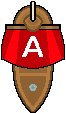
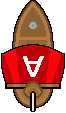
flip textures

diff --git a/core/src/com/mygdx/pirategame/GameScreen.java b/core/src/com/mygdx/pirategame/GameScreen.java
@@ -22,8 +22,8 @@ import java.util.ArrayList;
 import java.util.HashMap;
 
 public class GameScreen implements Screen {
-    private static float maxSpeed = 2;
-    private static float accel = 0.02f;
+    private static float maxSpeed = 3;
+    private static float accel = 0.2f;
 
     protected PirateGame game;
     private OrthographicCamera camera;
@@ -79,11 +79,11 @@ public class GameScreen implements Screen {
         // Spawning enemy ship and coin. x and y is spawn location
         colleges.put("Alcuin", new College(this, 1900 / PirateGame.PPM, 2100 / PirateGame.PPM,
                 "alcuin_flag.png", "alcuin_ship.png", 4));
-        colleges.put("Anne Lister", new College(this, 6250 / PirateGame.PPM, 1200 / PirateGame.PPM,
+        colleges.put("Anne Lister", new College(this, 6250 / PirateGame.PPM, 1250 / PirateGame.PPM,
                 "anne_lister_flag.png", "anne_lister_ship.png", 4));
-        colleges.put("Constantine", new College(this, 6500 / PirateGame.PPM, 6750 / PirateGame.PPM,
+        colleges.put("Constantine", new College(this, 5900 / PirateGame.PPM, 6750 / PirateGame.PPM,
                 "constantine_flag.png", "constantine_ship.png", 4));
-        colleges.put("Derwent", new College(this, 1900 / PirateGame.PPM, 6750 / PirateGame.PPM,
+        colleges.put("Derwent", new College(this, 1900 / PirateGame.PPM, 6500 / PirateGame.PPM,
                 "derwent_flag.png", "derwent_ship.png", 4));
         ships.addAll(colleges.get("Alcuin").fleet);
         ships.addAll(colleges.get("Anne Lister").fleet);
